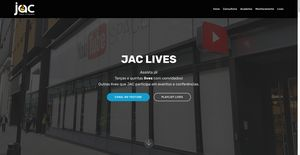
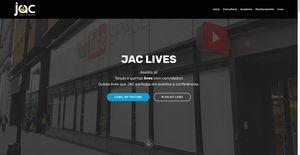
Ajustes na pagina de lives

Changed region(s): [[0.33, 0.1032, 0.84, 0.129], [0.0, 0.0, 0.18, 0.129], [0.69, 0.0516, 0.96, 0.0774]]

diff --git a/consultoria.html b/consultoria.html
@@ -84,7 +84,7 @@ ga('send', 'pageview');
     </nav>
 </section>
 
-<section class="engine"><a href="https://mobirise.info/m">free website design templates</a></section><section class="cid-s68hXDiDG4 mbr-fullscreen mbr-parallax-background" id="header2-2u">
+<section class="engine"><a href="https://mobirise.info/w">html5 templates</a></section><section class="cid-s68hXDiDG4 mbr-fullscreen mbr-parallax-background" id="header2-2u">
 
     
 
@@ -220,12 +220,12 @@ ga('send', 'pageview');
                     <div id="bootstrap-toggle" class="toggle-panel accordionStyles tab-content">
                         <div class="card">
                             <div class="card-header" role="tab" id="headingOne">
-                                <a role="button" class="collapsed panel-title text-black" data-toggle="collapse" data-core="" href="#collapse1_39" aria-expanded="false" aria-controls="collapse1">
+                                <a role="button" class="collapsed panel-title text-black" data-toggle="collapse" data-core="" href="#collapse1_36" aria-expanded="false" aria-controls="collapse1">
                                     <h4 class="mbr-fonts-style display-5">
                                         <span class="sign mbr-iconfont mbri-arrow-down inactive"></span>Mentoria e treinamentos</h4>
                                 </a>
                             </div>
-                            <div id="collapse1_39" class="panel-collapse noScroll collapse" role="tabpanel" aria-labelledby="headingOne">
+                            <div id="collapse1_36" class="panel-collapse noScroll collapse" role="tabpanel" aria-labelledby="headingOne">
                                 <div class="panel-body p-4">
                                     <p class="mbr-fonts-style panel-text display-7">Nosso profissionais possuem muita experiência com treinamentos e capacitação, especialmente dentro do Governo Federal e grandes organizações privadas.<br><br>Procuramos aliar o conhecimento teórico e prático, equilibrando o treinamento para que nossos alunos retornem para suas respectivas organizações com condições de aplicar o conhecimento adquirido.<br><br>Todos os treinamentos são executados em formato hands on.<br><br>Treinamentos relativos a metodologias, técnicas, culturas e conceitos:<br> <br>- DevOps<br>- Infra Ágil<br>- Infra As Code<br>- Continuous Integration<br>- Continuous Delivery<br>- Microserviços<br>- Containers<br><br>Treinamentos das tecnologias:<br><br>- Puppet<br>- Ansible<br>- Nexus Repo<br>- MatterMost<br>- RocketChat<br>- Jitsi<br>- NextCloud<br>- Git na linha de comando<br>- GitLab/GitHub/Bitbucket<br>- Jenkins<br>- GitLab CI + GitLab Runners<br>- Docker + Docker Composer<br>- Kubernetes<br>- Rundeck<br>- Terraform<br>- Rancher<br>- RKE<br>- Passbolt<br>- ProxMox<br><br>Adaptamos nosso material às necessidades de cada cliente, dando foco especial nos temas e tópicos de maior valor para aquele cliente ou projeto.</p>
                                 </div>
@@ -233,13 +233,13 @@ ga('send', 'pageview');
                         </div>
                         <div class="card">
                             <div class="card-header" role="tab" id="headingTwo">
-                                <a role="button" class="collapsed panel-title text-black" data-toggle="collapse" data-core="" href="#collapse2_39" aria-expanded="false" aria-controls="collapse2">
+                                <a role="button" class="collapsed panel-title text-black" data-toggle="collapse" data-core="" href="#collapse2_36" aria-expanded="false" aria-controls="collapse2">
                                     <h4 class="mbr-fonts-style display-5">
                                         <span class="sign mbr-iconfont mbri-arrow-down inactive"></span> Consultoria</h4>
                                 </a>
 
                             </div>
-                            <div id="collapse2_39" class="panel-collapse noScroll collapse" role="tabpanel" aria-labelledby="headingTwo">
+                            <div id="collapse2_36" class="panel-collapse noScroll collapse" role="tabpanel" aria-labelledby="headingTwo">
                                 <div class="panel-body p-4">
                                     <p class="mbr-fonts-style panel-text display-7">Oferecemos consultoria nas seguinte áreas:<br><br>- Desenho de ambientes Linux escaláveis;<br>- Alta disponibilidade de serviços;<br>- DevOps;<br>- SRE;<br>- Infra as Code;<br>- Cloud Native APPs;<br>- Automação, Gerência de configuração e Orquestração;<br>- Monitoramento de aplicações e telemetria;<br>- Centralização de logs e telemetria;<br>- Continuous Integration e Continuous Delivery;<br>- Containerização de APPs;<br>- Migração de APPs para nuvem;<br>- Computação em Nuvem;<br>- Recuperação de falhas em ambientes críticos;<br>- Análise de ambientes com proposição de melhorias via automação e métodos;<br>- Avaliação da situação DevOps de sua organização.</p>
                                 </div>
@@ -247,12 +247,12 @@ ga('send', 'pageview');
                         </div>
                         <div class="card">
                             <div class="card-header" role="tab" id="headingThree">
-                                <a role="button" class="collapsed panel-title text-black" data-toggle="collapse" data-core="" href="#collapse3_39" aria-expanded="false" aria-controls="collapse3">
+                                <a role="button" class="collapsed panel-title text-black" data-toggle="collapse" data-core="" href="#collapse3_36" aria-expanded="false" aria-controls="collapse3">
                                     <h4 class="mbr-fonts-style display-5">
                                         <span class="sign mbr-iconfont mbri-arrow-down inactive"></span> Implantação e automação</h4>
                                 </a>
                             </div>
-                            <div id="collapse3_39" class="panel-collapse noScroll collapse" role="tabpanel" aria-labelledby="headingThree">
+                            <div id="collapse3_36" class="panel-collapse noScroll collapse" role="tabpanel" aria-labelledby="headingThree">
                                 <div class="panel-body p-4">
                                     <p class="mbr-fonts-style panel-text display-7">Implantação de ambientes:<br><br>- Puppet;<br>- GitLab;<br>- Nexus;<br>- MatterMost<br>- RocketChat;<br>- Jitsi;<br>- Jenkins;<br>- Rancher<br>- Kubernetes;<br>- ProxMox;<br>- Ansible;<br>- Docker;<br>- Rundeck;<br>- Terraform.<br><br>Construção de esteiras:<br><br>- Criação de esteiras/pipelines CI/CD usando GitLab CI;<br>- Criação de esteiras/pipelines CI/CD usando seu CI existente.<br><br>Automação:<br><br>- Automação de sistemas e serviços utilizando Puppet, Ansible, Rundeck e Terraform.</p>
                                 </div>
@@ -260,12 +260,12 @@ ga('send', 'pageview');
                         </div>
                         <div class="card">
                             <div class="card-header" role="tab" id="headingThree">
-                                <a role="button" class="collapsed panel-title text-black" data-toggle="collapse" data-core="" href="#collapse4_39" aria-expanded="false" aria-controls="collapse4">
+                                <a role="button" class="collapsed panel-title text-black" data-toggle="collapse" data-core="" href="#collapse4_36" aria-expanded="false" aria-controls="collapse4">
                                     <h4 class="mbr-fonts-style display-5">
                                         <span class="sign mbr-iconfont mbri-arrow-down inactive"></span>Gerenciamento de Crises</h4>
                                 </a>
                             </div>
-                            <div id="collapse4_39" class="panel-collapse noScroll collapse" role="tabpanel" aria-labelledby="headingThree">
+                            <div id="collapse4_36" class="panel-collapse noScroll collapse" role="tabpanel" aria-labelledby="headingThree">
                                 <div class="panel-body p-4">
                                     <p class="mbr-fonts-style panel-text display-7">Atuamos presencialmente durante crises e incidentes críticos, gerenciando e conduzindo os trabalhos em "salas de guerra", apoiando na organização de times e atividades, na identificação do problema, na avaliação de riscos, na organização do plano de ação, na distribuíção do time de resposta, na comunicação com organizações internas e externas diretamente relacionadas ao incidente e na construção do post-mortem.<br></p>
                                 </div>

diff --git a/lives.html b/lives.html
@@ -84,7 +84,7 @@ ga('send', 'pageview');
     </nav>
 </section>
 
-<section class="engine"><a href="https://mobirise.info/n">simple site templates</a></section><section class="header6 cid-s5WNb8tjXU mbr-fullscreen mbr-parallax-background" id="header6-1f">
+<section class="engine"><a href="https://mobirise.info/l">free web templates</a></section><section class="header6 cid-s5WNb8tjXU mbr-fullscreen mbr-parallax-background" id="header6-1f">
 
     
 
@@ -119,7 +119,7 @@ ga('send', 'pageview');
         <div class="row justify-content-md-center">
             <div class="col-md-10 align-center">
                 <h1 class="mbr-section-title mbr-bold pb-3 mbr-fonts-style display-1">
-                    LIVES DA SEMANA</h1>
+                    PRÓXIMAS LIVES</h1>
                 
                 
                 
@@ -138,7 +138,7 @@ ga('send', 'pageview');
     <div class="container">
         <div class="media-container-row">
             <div class="mbr-figure" style="width: 155%;">
-                <a href="https://go.jac.bsb.br/inscricao-live-gitops"><img src="assets/images/screen-shot-2020-07-31-at-10.02.18-959x539.png" alt="Mobirise" title=""></a>
+                <a href="https://go.jac.bsb.br/inscricao-live-gitops"><img src="assets/images/screen-shot-2020-07-31-at-11.37.49-958x539.png" alt="Mobirise" title=""></a>
             </div>
 
             <div class="media-content">
@@ -162,7 +162,7 @@ ga('send', 'pageview');
 
     <div class="container pt-4 mt-2">
         <h2 class="mbr-section-title pb-3 align-center mbr-fonts-style display-2">
-                    Próximas Lives</h2>
+                    AGENDA</h2>
         <h3 class="mbr-section-subtitle pb-5 align-center mbr-fonts-style display-5">04 a 25 de Agosto</h3>
         <div>
             

diff --git a/index.html b/index.html
@@ -85,7 +85,7 @@ ga('send', 'pageview');
     </nav>
 </section>
 
-<section class="engine"><a href="https://mobirise.info/e">make a site for free</a></section><section class="carousel slide cid-rYZTIAFpR9" data-interval="false" id="slider1-12">
+<section class="engine"><a href="https://mobirise.info/z">best free website templates</a></section><section class="carousel slide cid-rYZTIAFpR9" data-interval="false" id="slider1-12">
 
     
 
@@ -112,7 +112,7 @@ ga('send', 'pageview');
                     <div class="media-container-column" data-form-type="formoid">
                         <!---Formbuilder Form--->
                       
[2 lines of base64/hex data omitted]
                             <div class="row">
                                 <div hidden="hidden" data-form-alert="" class="alert alert-success col-12">Em breve responderemos sua mensagem!</div>
                                 <div hidden="hidden" data-form-alert-danger="" class="alert alert-danger col-12">

diff --git a/monitoramento.html b/monitoramento.html
@@ -84,7 +84,7 @@ ga('send', 'pageview');
     </nav>
 </section>
 
-<section class="engine"><a href="https://mobirise.info/v">html templates</a></section><section class="cid-s681TufhsR mbr-fullscreen mbr-parallax-background" id="header2-2h">
+<section class="engine"><a href="https://mobirise.info/j">website templates</a></section><section class="cid-s681TufhsR mbr-fullscreen mbr-parallax-background" id="header2-2h">
 
     
 
@@ -407,7 +407,7 @@ ga('send', 'pageview');
                     <div class="media-container-column" data-form-type="formoid">
                         <!---Formbuilder Form--->
                       
[2 lines of base64/hex data omitted]
                             <div class="row">
                                 <div hidden="hidden" data-form-alert="" class="alert alert-success col-12">Em breve responderemos sua mensagem!</div>
                                 <div hidden="hidden" data-form-alert-danger="" class="alert alert-danger col-12">
